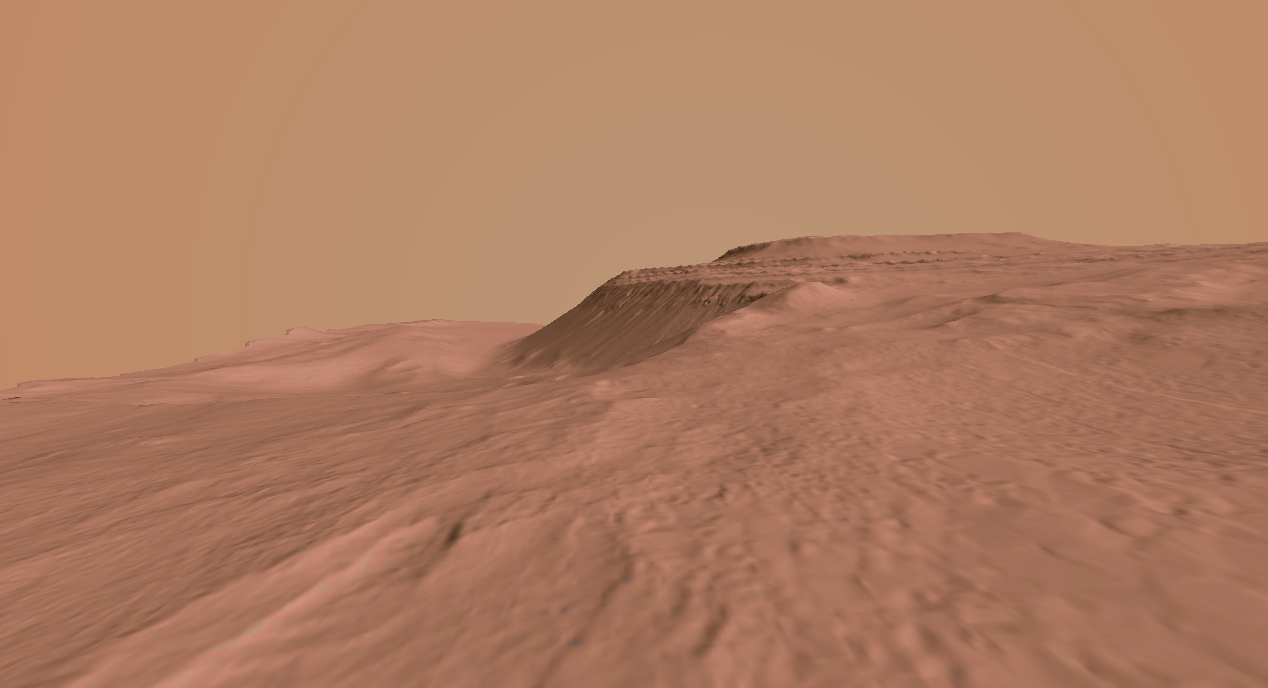
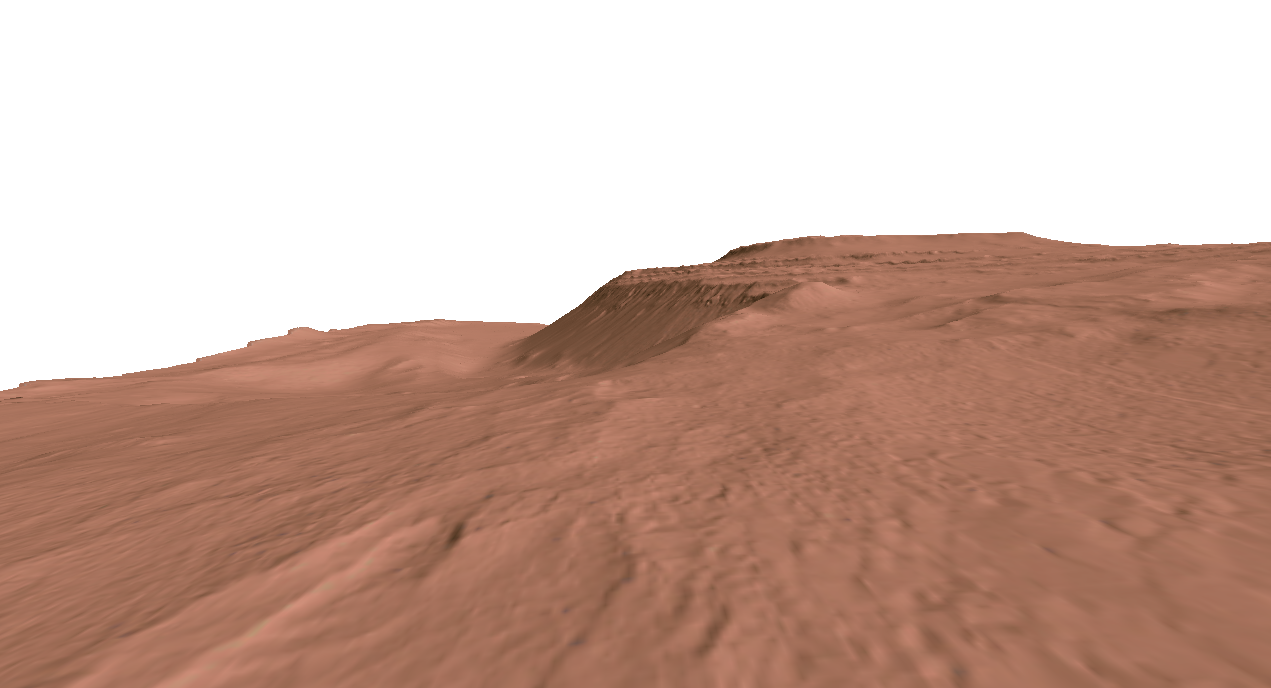
Blogs page LIVE, mars blog up

diff --git a/_includes/header.html b/_includes/header.html
@@ -1,6 +1,6 @@
 <div class="header">
 	<ul class="links">
-		<!-- <li><a href="{{site.baseurl}}/blog/">Blog</a></li>	 -->
+		<li><a href="{{site.baseurl}}/blog/">Blog</a></li>	
 		<li><a href="CorbinMuraro.pdf#zoom=30" target="_blank">Résumé</a></li>
 		<li><a href="mailto:corbinmuraro@gmail.com">Email</a></li>
 	</ul>

diff --git a/index.html b/index.html
@@ -44,7 +44,7 @@
 <body>
 	<div class="header">
 		<ul class="links">
-			<!-- <li><a href="/blog/">Blog</a></li> -->
+			<li><a href="/blog/">Blog</a></li>
 			<li><a href="CorbinMuraro.pdf#zoom=30" target="_blank">Résumé</a></li>
 			<li><a href="mailto:corbinmuraro@gmail.com">Email</a></li>
 		</ul>

diff --git a/css/index.css b/css/index.css
@@ -292,7 +292,7 @@ a {
 
 /* TODO: Dropdown to prevent clipping on mobile */
 @media (max-width: 500px) {
-	.links li {
+	.links li:nth-child(2) {
 		display: none;
 	}
 }

diff --git a/_blogs/mars.md b/_blogs/mars.md
@@ -1,22 +1,22 @@
 ---
 layout: blog
 title: "Visualizing Mars in Three.JS"
-date: 2017-3-12
+date: 2017-3-28
 ---
 
 # Visualizing Mars in Three.JS
 
 [Mars Maps](http://corbinmuraro.com/mars-terrain) is a concept website that I built as a way to better take advantage of NASA's Mars terrain imagery captured through [HiRISE](http://www.uahirise.org), one of the instruments on board NASA's [Mars Reconnaissance Orbiter](https://en.wikipedia.org/wiki/Mars_Reconnaissance_Orbiter). 
 
-What follows is a brief introduction to three.js terrain modeling for Mars. A huge amount of credit is due to Bjørn Sandvik, whose [blog posts on terrain generation in three.js](http://blog.mastermaps.com/2013/10/terrain-building-with-threejs.html) are phenomenal resources to those new to terrain modeling.
+What follows is a distillation of what I learned as a brief introduction to modeling Mars in three.js. A huge amount of credit is due to Bjørn Sandvik, whose [blog posts on terrain generation in three.js](http://blog.mastermaps.com/2013/10/terrain-building-with-threejs.html) are phenomenal resources for those new to the subject.
 
-[![2% VR](images/mars.png){:class="centered-image"}](http://corbinmuraro.com/2percentvr)
+![colored terrain]({{site.baseurl}}/images/blog-images/mars-images/color-sky.png)
 
-## Making Terrain Maps Three.JS Friendly
+## Making Mars Terrain Data Three.JS Friendly
 
-There are several places to find terrain data from Mars, but as far as I could tell, the best publicly accessible Mars terrain data are HiRISE's [Digital Terrain Models (DTMs)](http://www.uahirise.org/dtm/). For this example, we'll use terrain data from [inside Terby Crater](http://www.uahirise.org/dtm/dtm.php?ID=ESP_021942_1520).
+There are several places to find terrain data from Mars, but as far as I could tell, the best public resource are HiRISE's [Digital Terrain Models (DTMs)](http://www.uahirise.org/dtm/). In this walkthrough, we'll use terrain data from [inside Terby Crater](http://www.uahirise.org/dtm/dtm.php?ID=ESP_021942_1520).
 
-In the top of the DTM column on the left, NASA provides a .IMG file which contains the elevation data that we're after. In order for this terrain data to be accessed from a web browser, we need to convert it to a [GeoTIFF](https://en.wikipedia.org/wiki/GeoTIFF) format. To accomplish this, we need to install [gdal](http://www.gdal.org).
+With each DTM, NASA provides a .IMG file containing the elevation data that we're after. In order for this terrain data to be accessible from a web browser, we need to convert it to a [GeoTIFF](https://en.wikipedia.org/wiki/GeoTIFF) format. To accomplish this, we need to install [gdal](http://www.gdal.org).
 
 Once gdal is installed, we use the gdalinfo utility, providing the -mm option to find minimum and maximum altitudes in the .IMG file.
 
@@ -24,27 +24,31 @@ Once gdal is installed, we use the gdalinfo utility, providing the -mm option to
 gdalinfo -mm DTEEC_021942_1520_021797_1520_A01.IMG
 ~~~~
 
-The bottom of the output from gdalinfo contains a pair of Computed Min/Max values that we'll need in a minute. For this file, the minimum altitude is -4575 and the maximum altitude is -3217. Next, to convert the file, we run gdal_translate.
+The output from gdalinfo contains a pair of Computed Min/Max values that we'll need for the conversion. For this IMG file, gdalinfo returned a minimum altitude of -4575 and a maximum altitude of -3217. 
+
+Next, to convert the file, we run gdal_translate.
 
 ~~~~ 
 gdal_translate -scale -4575 -3217 0 65535 -outsize 100 1000 -ot UInt16 -of ENVI DTEEC_021942_1520_021797_1520_A01.IMG output.bin
 ~~~~
 
-This command does several things for us. First, we're converting the elevation range from the given range to between 0 and 65535, which is 2<sup>16</sup>-1, or the range of a 16-bit integer. Appropriately, we're also having the output 'pixels' represented as 16 bit integers.
+This command does several things for us. First, we're converting the elevation range to being between 0 and 65535, or the range of values for a 16-bit integer. Appropriately, we're also setting the output type of each elevation 'pixel' to UInt16, or a 16-bit integer.
 
-We're also dramatically reducing the size of the output file to holding height data for each 'pixel' in a 100x1000 plane. You can play with these -outsize dimensions if you'd like. Once you get above 250,000 total 'pixels' of terrain information, you start seeing some serious performance issues when rendering the file in three.js. The last part of our gdal_translate command converts our .IMG file to a .bin GeoTIFF file, which fits nicely into Bjørn Sandvik's terrainLoader.
+NASA provides provides extremely high resolution files, at a resolution that simply can't work on the web. Hence, we're also dramatically reducing the 'resolution' of our output to being 100x1000 'pixels' of terrain data. You can play with these -outsize dimensions if you'd like. From my testing, once you get above 250,000 total 'pixels' of terrain information, you start seeing some serious performance issues when rendering the file in three.js. 
 
-## Rendering Terrain Data on the Web
+The last part of our gdal_translate command converts our .IMG file to a .bin GeoTIFF file, which fits nicely into Bjørn Sandvik's terrainLoader.
+
+## Rendering Mars Terrain Data on the Web
 
 Now that we have some WebGL-friendly Martian terrain, let's start writing some Javascript to render it in the browser.
 
-First, we import three.js and Sandvik's terrainLoader. Then, we set up our three.js project. I create a scene, camera, and renderer object, add some lighting, and get my camera pointed at the terrain we're about to generate. For those new to three.js, [here's a great primer video that goes into more depth on the basics of three.js](https://www.youtube.com/watch?v=PN0uwzgPe3c).
+First, we import three.js and Sandvik's [terrainLoader](https://github.com/turban/webgl-terrain/blob/master/lib/TerrainLoader.js). Then, we set up our three.js project. We build a scene, camera, and renderer object, add some lighting, and get our camera pointed at the terrain we're about to generate. For those new to three.js, [here's a great primer video that goes into more depth on the basics of three.js](https://www.youtube.com/watch?v=PN0uwzgPe3c).
 
 <script src="https://gist.github.com/corbinmuraro/ad129c64a7d389c534e449540b3760d3.js?file=threejs-setup.js"></script>
 
 Next, we need to capture the terrain data from our output.bin file. This is where terrainLoader comes in, returning to us an array of integers between 0 and 65535, corresponding to each 'pixel', or vertex of elevation data in output.bin. 
 
-We create a plane, in which the first two parameters are the dimensions of the plane in three.js, and the second two parameters are the 'resolution' from output.bin. We then iterate through these points of data and assign the vertex the associated elevation from the array of integers. We texture our terrain and add it to the scene. For now, I'm using an image of a grid as my texture, just to make sure everything is working properly.
+We create a plane, in which the first two parameters are the dimensions of the plane in three.js, and the second two parameters are the 'resolution' from output.bin. We then iterate through these points of data and assign the vertex the associated elevation from the array of integers. We texture our terrain and add it to the scene. For now, I'm using an image of a grid as my texture, just to ensure everything is working properly.
 
 <script src="https://gist.github.com/corbinmuraro/ad129c64a7d389c534e449540b3760d3.js?file=terrain-loader.js"></script>
 
@@ -56,15 +60,20 @@ Lastly, we append our scene to a div declared in the HTML body and render it.
 
 ## Texturing Mars
 
-While HiRISE doesn't provide any colorized images of Mars, they do provide a [shaded relief](http://hirise-pds.lpl.arizona.edu/PDS/EXTRAS/DTM/ESP/ORB_021900_021999/ESP_021942_1520_ESP_021797_1520/DTEEC_021942_1520_021797_1520_A01.sa.jpg) with each DTM. These shaded reliefs are lifelike black and white images. By cropping out the top and bottom borders of the shaded relief for inside Terby Crater, we have a texture map that we can lay on top of our plane of vertices to improve our visualization of the crater.
+While HiRISE doesn't provide any colorized images of Mars, they do provide a [shaded relief](http://hirise-pds.lpl.arizona.edu/PDS/EXTRAS/DTM/ESP/ORB_021900_021999/ESP_021942_1520_ESP_021797_1520/DTEEC_021942_1520_021797_1520_A01.sa.jpg) with each DTM. By cropping out the top and bottom borders of the shaded relief for inside Terby Crater, we have a texture that we can lay on top of our plane of vertices to give it some realistic depth and shading.
 
 ![black and white terrain]({{site.baseurl}}/images/blog-images/mars-images/bw.png)
 
-To colorize the HiRISE-supplied black and white relief image, I opened up Photoshop and made a few adjustments. First, I found a reference image of the Martian surface online, taken from a similar perspective with an appropriate color profile[^1]. I used the Match Color command (Image > Adjustments > Match Color) to convert the black and white relief into the color profile of the reference image. From this point, I adjusted the hues of particular colors and made other tweaks to better mirror the reference image.
+To colorize the HiRISE-supplied black and white relief image, I opened up Photoshop and made a few adjustments. First, I found a reference image of the Martian surface online, taken from a similar perspective with an appropriate color profile[^1]. I used Photoshop's Match Color command (Image > Adjustments > Match Color) to convert the black and white relief into the color profile of the reference image. From this point, I adjusted the hues of particular colors and made some other tweaks to better mirror the reference image.
 
 ![colored terrain]({{site.baseurl}}/images/blog-images/mars-images/color.png)
 
-The up-and-running demo that I went through in this post can be viewed [here](http://corbinmuraro.com/mars-demo). The code is also available on GitHub [here](https://github.com/corbinmuraro/mars-demo). Reach out to me on my Twitter [@corbinmuraro](https://twitter.com/corbinmuraro) if you have any questions and I'll try my best to help you out!
+As a final step, I added a gradient skydome by following [Ian Webster's blog post](http://www.ianww.com/blog/2014/02/17/making-a-skydome-in-three-dot-js/).
 
-[^1]: [Don Davis has a great (albeit terribly formatted) read for those interested in what the colors on Mars actually are](http://www.donaldedavis.com/PARTS/MARSCLRS.html)
+![colored terrain]({{site.baseurl}}/images/blog-images/mars-images/color-sky.png)
 
+Without too much work, gdal and three.js have turned some real Mars data into a visualization that runs in a web browser. 
+
+The model that I built can be seen in the browser [here](http://corbinmuraro.com/mars-demo/terby.html). The code is also available on GitHub [here](https://github.com/corbinmuraro/mars-demo). Reach out on Twitter [@corbinmuraro](https://twitter.com/corbinmuraro) if you have any questions and I'll do my best to help you out!
+
+[^1]: [Don Davis has a great (albeit terribly formatted) read](http://www.donaldedavis.com/PARTS/MARSCLRS.html) for those interested in what the colors on Mars actually are

diff --git a/_drafts/her.md b/_drafts/her.md
@@ -1,0 +1,72 @@
+---
+layout: blog
+title: "Why Voice UI Isn‘t the Future"
+date: 2017-2-23
+---
+
+# Why Voice UI Isn‘t the Future
+
+I broke the display of my iPhone last weekend, and for the past few days have since been relying solely on Siri to interface with my phone. What began as frustration inadvertently got me thinking about how far pure voice UIs like Siri and Alexa have developed in recent years, and also what ways they might stretch into other aspects of our daily lives in the future.
+
+<div class="youtube">
+<iframe width="620" height="480" src="https://www.youtube.com/embed/H-zPIjJv8rA" frameborder="0" allowfullscreen align="middle" style="max-width: 620px;"></iframe>
+</div>
+
+## Background
+
+Voice UI is not a new concept, but advances in technology in recent have refined our understanding of what value a voice UI can add. Looking to TV, one of the best-known instances of a voice interface came from Star Trek, in voice UI was extensively used to interface with the ships. 
+
+We're moving towards more and more abstraction:
+1. Tactile buttons that do as you expect (image of old landline)
+2. Physical input devices to do a variety of things (keyboard and mouse)
+3. Touchscreens (varying input to do a variety of things)
+4. Voice UI?
+
+## Pros: 
+
+### Lack of privacy; makes you be more thoughtful with the time you spend with your device
+
+Though conversation may have a lower cognitive load than tapping away on a touchscreen, there is a lack of privacy 
+
+
+Additionally, speaking words reinforces meaning in a natural way that simply isn't possible when navigating menus. The relationship between "Play Blood by the Middle East" and playing the song "Blood" by the "Middle East" is fantastically intuitive in a way that touchscreens can never come close to.
+
+
+However, this leads into the main downside and most frustrating part of my experience.
+
+
+## Cons: 
+
+### You have to relinquish control
+
+Leisurely browsing through content through speech is a tedious and frustrating task. Our visual system allow us to process lots of information at once; our auditory system can't keep up.
+
+Hence, a speech UI can't browse through songs or Google search results in the manner possible on a touchscreen. In exchange, **users will be forced to trust the AI**. Instead of listening to lists of albums or scrolling through Yelp reviews, users will need to trust that the algorithms will choose the same Google result that you would or pick the same Kendrick Lamar song that you would. And of course, the AI needs to be accurate enough to meet these expectations.
+
+### Your memory isn't that good
+
+Even if you're not in the mood to browse through content, **the lack of a display restricts the number of options to what you can recall from memory**; there are no strong cues to help you figure things out. I often found myself asking for the same couple of commands. You forget what options exist when you lose all visual cues. In order to fill in the gaps in our faulty memory without a display, the AI needs to be smart enough to replicate what you would choose to do on a display.
+
+### What about photos and videos?
+
+In the short term, removing a screen removes the ability for a user to consume media content. While I found this restriction very liberating with a mindset similar to backers of the anti-tech dependence [Light Phone](https://www.kickstarter.com/projects/thelightphone/the-light-phone), losing media consumption capability is a big mark against a speech UI in 2017.
+
+When AR becomes viable and mainstream, augmented reality's ability to display visual content could fill in these gaps.
+
+### Nothing to click results in excessive waiting / frustration with results
+
+Perhaps this could be achieved with perfect machine learning to understand pace / what you want to hear...
+
+CALL AND RESPONSE IS SUPER INEFFICIENT (next, next, next...)
+
+ONLY WORKS WELL WHEN YOU SAY ONE COMMAND AND AI DOES THE REST (e.g. play something new; read me my emails)
+
+OR: Physical buttons + speech interface?
+
+	- fast-forward / rewind buttons
+
+	- "next item" button?
+
+	- select button
+
+	- button to queue notifications / get updated
